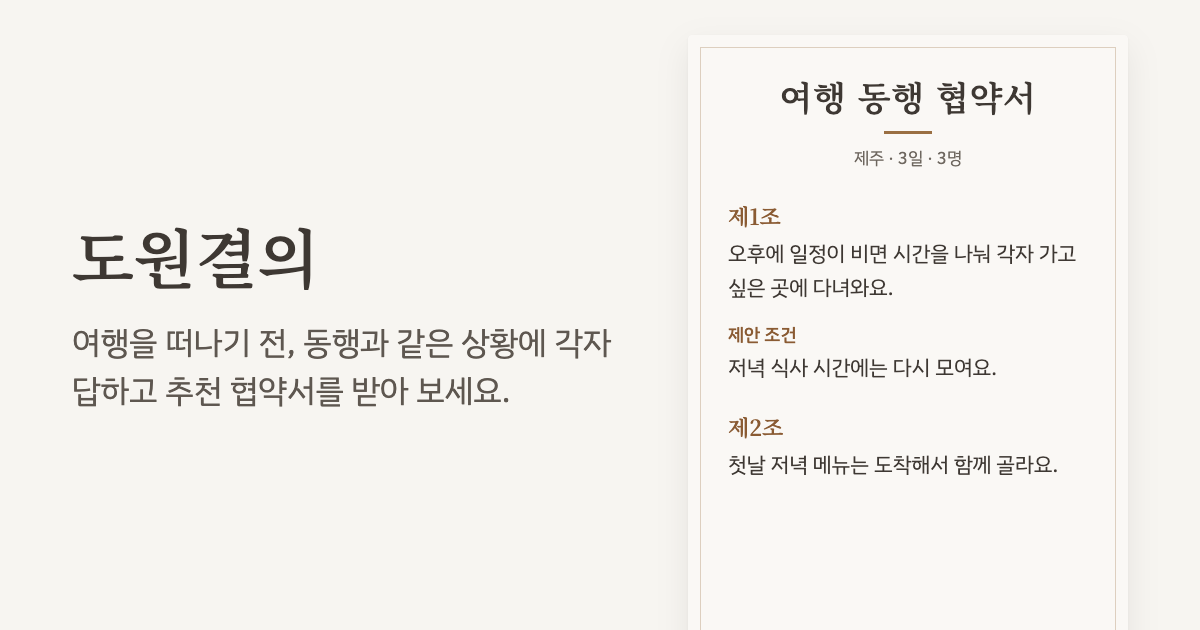
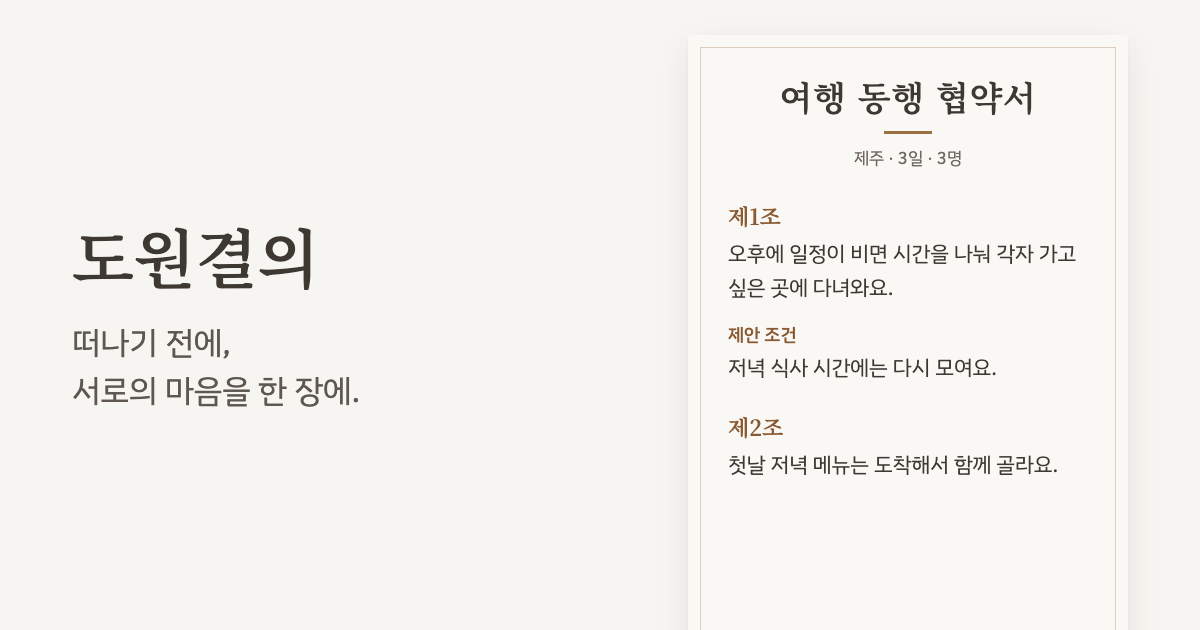
feat(web): robots·sitemap·favicon과 화면별 제목, canonical, noindex
- robots.txt는 /api/만 막고 /r/은 열어 둔다. 방 경로는 noindex로 막는다
- sitemap.xml에 /, /privacy만 넣는다
- 화면별 document.title과 대표 제목, OG·Twitter 메타를 맞춘다
- 방 정보는 제목과 OG에 넣지 않는다
- 크롤러 파일이 1년 캐시를 받지 않게 deploy.yml을 고친다

Claude-Session: https://claude.ai/code/session_01VxWWVDcvEAQaG6wGL3D26P

Changed region(s): [[0.0617, 0.5127, 0.5242, 0.6635]]

diff --git a/web/index.html b/web/index.html
@@ -7,20 +7,25 @@
     <meta name="apple-mobile-web-app-capable" content="yes" />
     <meta name="apple-mobile-web-app-title" content="도원결의" />
     <link rel="manifest" href="/manifest.webmanifest" />
+    <link rel="icon" href="/favicon.ico" sizes="48x48" />
     <link rel="icon" type="image/png" sizes="32x32" href="/icons/favicon-32.png" />
     <link rel="apple-touch-icon" href="/icons/apple-touch-icon.png" />
-    <meta name="description" content="여행을 떠나기 전, 동행과 같은 상황에 각자 답하고 추천 협약서를 받아 보세요." />
+    <meta name="description" content="말 못 한 바람도 각자 답하면 추천 협약서에 담겨요. 동행과 같은 상황에 각자 답해 보세요." />
     <meta property="og:type" content="website" />
     <meta property="og:site_name" content="도원결의" />
     <meta property="og:locale" content="ko_KR" />
-    <meta property="og:title" content="도원결의" />
-    <meta property="og:description" content="여행을 떠나기 전, 동행과 같은 상황에 각자 답하고 추천 협약서를 받아 보세요." />
+    <meta property="og:title" content="도원결의 · 떠나기 전에, 서로의 마음을 한 장에" />
+    <meta property="og:description" content="말 못 한 바람도 각자 답하면 추천 협약서에 담겨요. 동행과 같은 상황에 각자 답해 보세요." />
     <meta property="og:url" content="https://dowonpact.com/" />
     <meta property="og:image" content="https://dowonpact.com/og.png" />
     <meta property="og:image:width" content="1200" />
     <meta property="og:image:height" content="630" />
     <meta property="og:image:alt" content="도원결의 여행 동행 협약서 예시" />
     <meta name="twitter:card" content="summary_large_image" />
+    <meta name="twitter:title" content="도원결의 · 떠나기 전에, 서로의 마음을 한 장에" />
+    <meta name="twitter:description" content="말 못 한 바람도 각자 답하면 추천 협약서에 담겨요. 동행과 같은 상황에 각자 답해 보세요." />
+    <meta name="twitter:image" content="https://dowonpact.com/og.png" />
+    <link rel="canonical" href="https://dowonpact.com/" />
     <link rel="preconnect" href="https://fonts.googleapis.com" />
     <link rel="preconnect" href="https://fonts.gstatic.com" crossorigin />
     <link
@@ -28,7 +33,7 @@
       crossorigin="anonymous"
       href="https://fonts.googleapis.com/css2?family=IBM+Plex+Sans+KR:wght@400;500;600&family=Noto+Serif+KR:wght@600&display=swap"
     />
-    <title>도원결의</title>
+    <title>도원결의 · 떠나기 전에, 서로의 마음을 한 장에</title>
   </head>
   <body>
     <div id="root"></div>

diff --git a/web/src/lib/pageMeta.ts b/web/src/lib/pageMeta.ts
@@ -1,0 +1,66 @@
+import { useEffect } from "react";
+import { useLocation } from "react-router-dom";
+
+export const SITE_TITLE = "도원결의 · 떠나기 전에, 서로의 마음을 한 장에";
+const SITE_ORIGIN = "https://dowonpact.com";
+
+export interface PageMeta {
+  title: string;
+  /** 검색에 내보낼 주소. 없으면 canonical을 지우고 noindex를 건다. */
+  canonical?: string;
+}
+
+/** 제목에 방 코드, 목적지, 이름을 넣지 않는다. */
+export function pageMetaFor(pathname: string): PageMeta {
+  if (pathname === "/") return { title: SITE_TITLE, canonical: `${SITE_ORIGIN}/` };
+  if (pathname === "/privacy") return { title: "개인정보 처리방침 · 도원결의", canonical: `${SITE_ORIGIN}/privacy` };
+  if (pathname === "/new") return { title: "방 만들기 · 도원결의" };
+  const room = /^\/r\/[^/]+(\/[^/]+)?$/.exec(pathname);
+  if (room) {
+    const sub = room[1];
+    if (sub === "/answer") return { title: "답하기 · 도원결의" };
+    if (sub === "/wait") return { title: "진행 상황 · 도원결의" };
+    if (sub === "/result") return { title: "추천 협약서 · 도원결의" };
+    if (sub === "/created") return { title: "초대 링크 · 도원결의" };
+    return { title: "여행 방 · 도원결의" };
+  }
+  return { title: "페이지를 찾지 못했어요 · 도원결의" };
+}
+
+function setHeadLink(href: string | undefined) {
+  let el = document.head.querySelector<HTMLLinkElement>('link[rel="canonical"]');
+  if (!href) {
+    el?.remove();
+    return;
+  }
+  if (!el) {
+    el = document.createElement("link");
+    el.rel = "canonical";
+    document.head.appendChild(el);
+  }
+  el.href = href;
+}
+
+function setRobots(noindex: boolean) {
+  let el = document.head.querySelector<HTMLMetaElement>('meta[name="robots"]');
+  if (!noindex) {
+    el?.remove();
+    return;
+  }
+  if (!el) {
+    el = document.createElement("meta");
+    el.name = "robots";
+    document.head.appendChild(el);
+  }
+  el.content = "noindex, nofollow";
+}
+
+export function usePageMeta(): void {
+  const { pathname } = useLocation();
+  useEffect(() => {
+    const meta = pageMetaFor(pathname);
+    document.title = meta.title;
+    setHeadLink(meta.canonical);
+    setRobots(!meta.canonical);
+  }, [pathname]);
+}

diff --git a/web/src/test/pageMeta.test.tsx b/web/src/test/pageMeta.test.tsx
@@ -1,0 +1,41 @@
+import { cleanup, render } from "@testing-library/react";
+import { MemoryRouter } from "react-router-dom";
+import { afterEach, describe, expect, it } from "vitest";
+import { pageMetaFor, SITE_TITLE, usePageMeta } from "../lib/pageMeta";
+
+afterEach(cleanup);
+
+function Meta() {
+  usePageMeta();
+  return null;
+}
+
+const open = (path: string) =>
+  render(
+    <MemoryRouter initialEntries={[path]}>
+      <Meta />
+    </MemoryRouter>
+  );
+
+describe("화면별 메타", () => {
+  it("첫 화면은 대표 제목과 canonical을 쓰고 noindex가 없다", () => {
+    open("/");
+    expect(document.title).toBe(SITE_TITLE);
+    expect(document.head.querySelector('link[rel="canonical"]')?.getAttribute("href")).toBe("https://dowonpact.com/");
+    expect(document.head.querySelector('meta[name="robots"]')).toBeNull();
+  });
+
+  it("방 경로는 noindex이고 canonical이 없으며 제목에 방 코드가 없다", () => {
+    for (const path of ["/r/secretcode", "/r/secretcode/answer", "/r/secretcode/wait", "/r/secretcode/result", "/r/secretcode/created"]) {
+      cleanup();
+      open(path);
+      expect(document.head.querySelector('meta[name="robots"]')?.getAttribute("content")).toBe("noindex, nofollow");
+      expect(document.head.querySelector('link[rel="canonical"]')).toBeNull();
+      expect(document.title).not.toContain("secretcode");
+    }
+  });
+
+  it("처리방침은 자기 주소를 canonical로 쓴다", () => {
+    expect(pageMetaFor("/privacy").canonical).toBe("https://dowonpact.com/privacy");
+  });
+});

diff --git a/web/src/App.tsx b/web/src/App.tsx
@@ -1,6 +1,7 @@
 import { Link, Route, Routes, useNavigate } from "react-router-dom";
 import { Header } from "./components/ui";
 import { BackProvider, useHeaderBack } from "./lib/back";
+import { usePageMeta } from "./lib/pageMeta";
 import { MockBar } from "./mock/MockBar";
 import { Answer } from "./pages/Answer";
 import { CreateRoom } from "./pages/CreateRoom";
@@ -27,6 +28,7 @@ function NotFound() {
 }
 
 export function App() {
+  usePageMeta();
   return (
     <BackProvider>
       {MOCK && <MockBar />}
